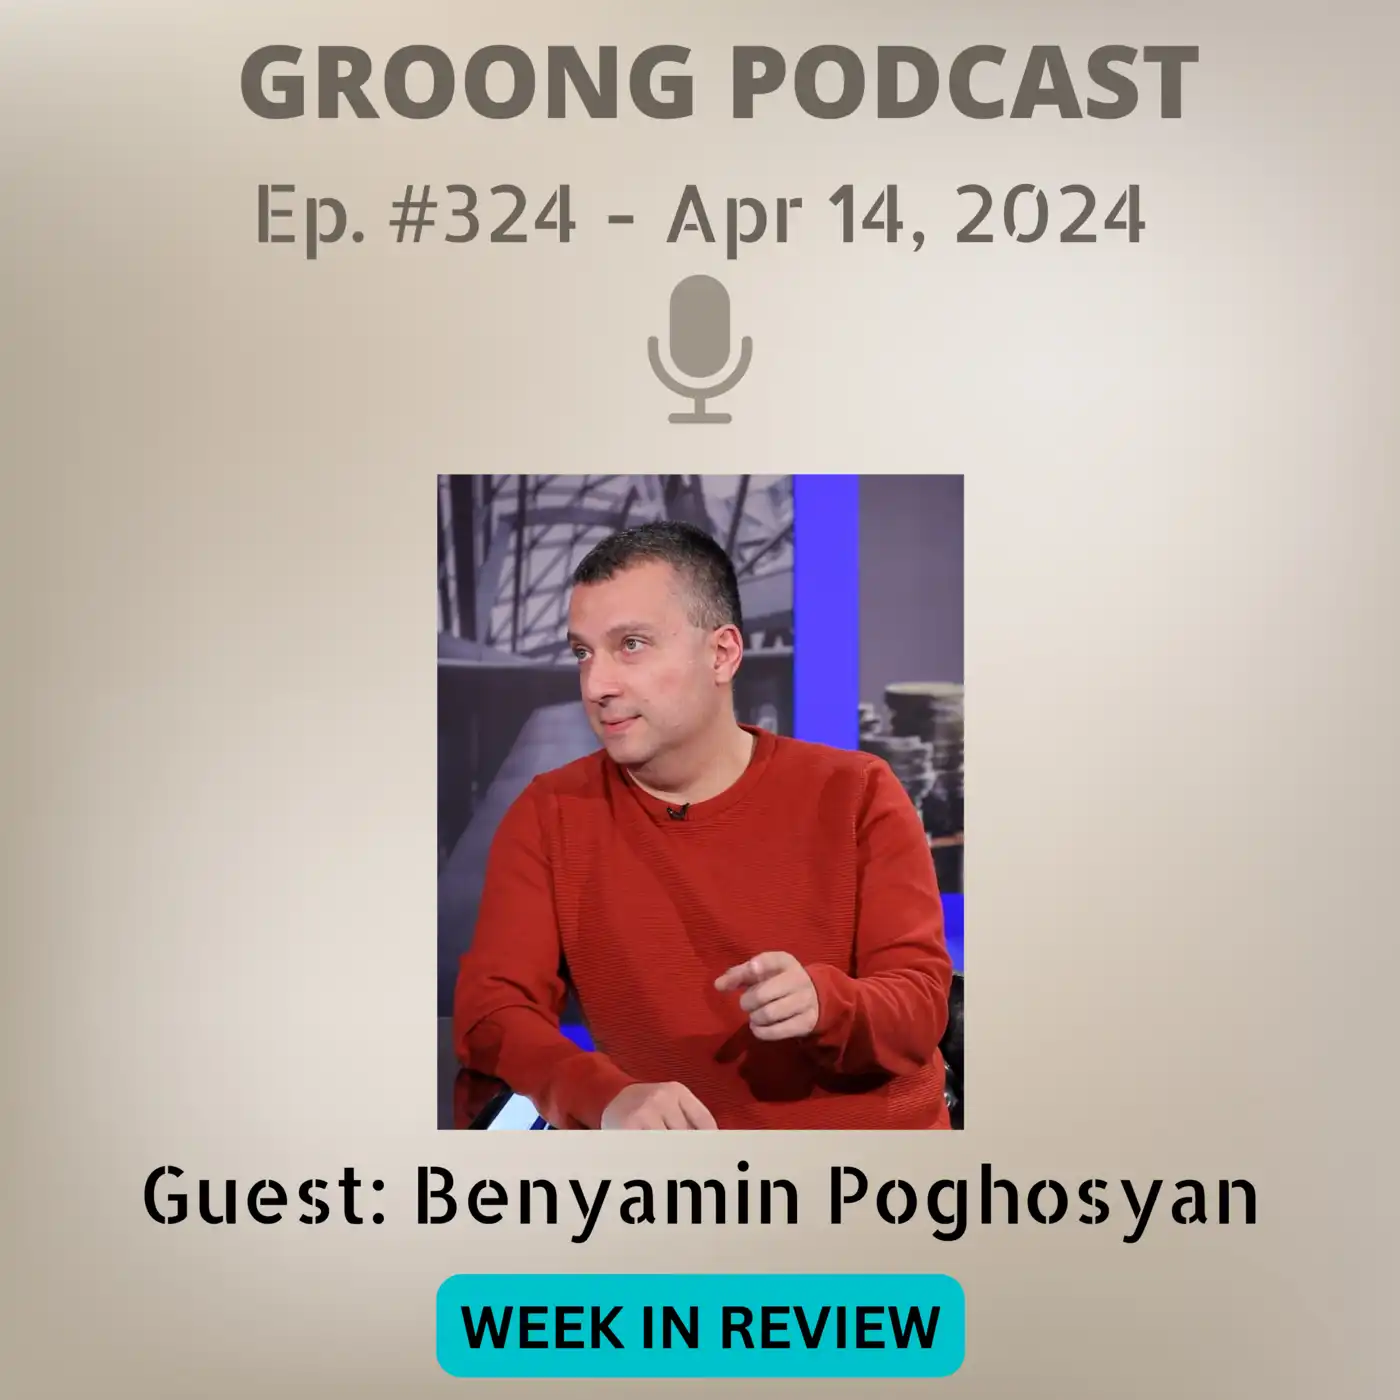
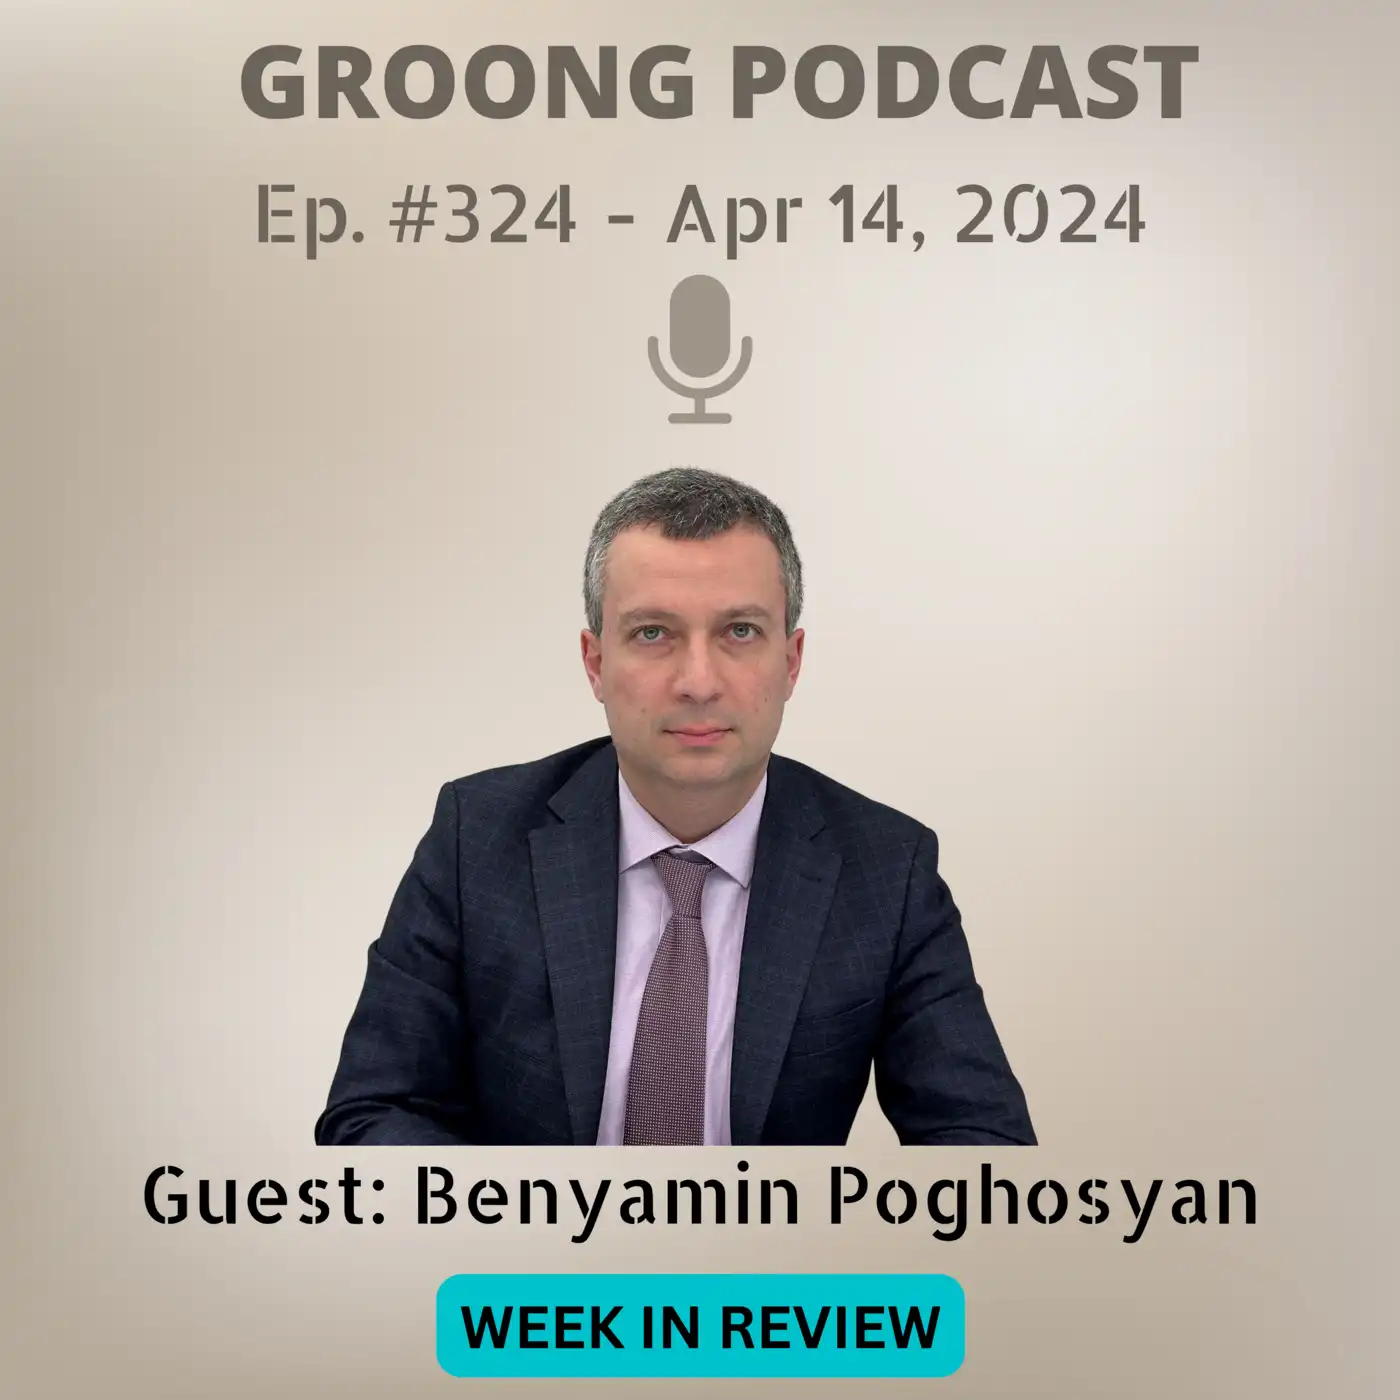
Going live ep 324. Will add Youtube later.

Changed region(s): [[0.215, 0.3379, 0.7371, 0.8293]]

diff --git a/content/episode/324-benyamin-poghosyan-armenia-azerbaijan-negotiations-iran-amidst-conflicts-political-prisoners.md b/content/episode/324-benyamin-poghosyan-armenia-azerbaijan-negotiations-iran-amidst-conflicts-political-prisoners.md
@@ -1,14 +1,14 @@
 +++
 
 Date = 2024-04-17T00:15:00-04:00
-upcoming = true
+upcoming = false
 
 title = "Benyamin Poghosyan - Armenia Azerbaijan Talks | Iran Amidst Conflicts | Political Prisoners | Ep 324 - Apr 14, 2024"
 subtitle = "Armenian News Network Groong - April 14, 2024"
 
-podcast_file = ""
-podcast_bytes = ""
-podcast_duration = ""
+podcast_file = "14908095-benyamin-poghosyan-genocide-denial-by-the-armenian-government-armenia-azerbaijan-talks-iran-amidst-conflicts-political-prisoners-ep-324-apr-14-2024.mp3"
+podcast_bytes = "47545707"
+podcast_duration = "3959"
 youtube = ""
 
 episode_image = "img/episode/324/thumbnail-324.webp"
